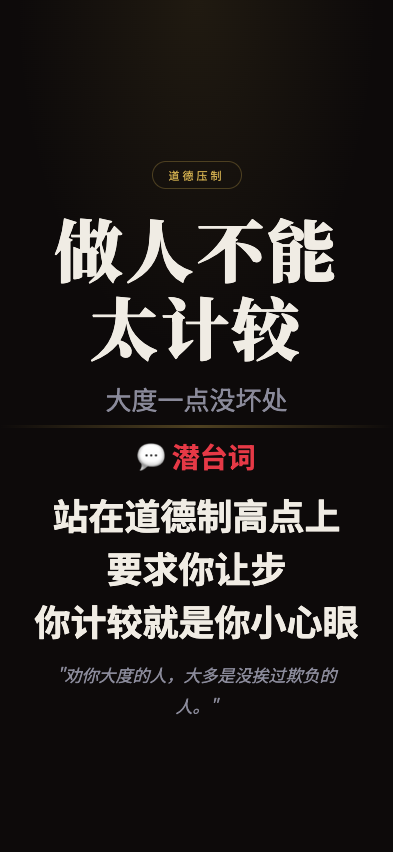
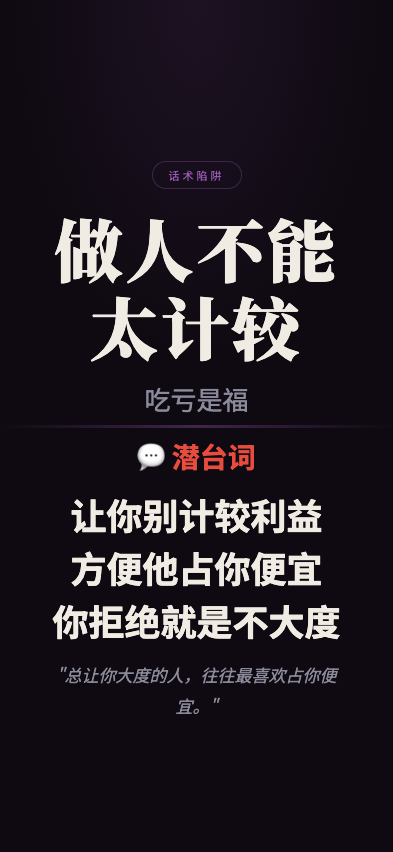
feat: 职场生存法则 screenshot - zuorenbunengtaijijiao

Changed region(s): [[0.0916, 0.5798, 0.916, 0.8545], [0.2443, 0.4577, 0.7634, 0.5188], [0.4275, 0.1831, 0.5802, 0.2136]]

diff --git a/wuliao-tools/tools/biz-speak/scenes/zuorenbunengtaijijiao.html b/wuliao-tools/tools/biz-speak/scenes/zuorenbunengtaijijiao.html
@@ -7,11 +7,11 @@
 <link href="https://fonts.googleapis.com/css2?family=Noto+Serif+SC:wght@400;700;900&family=Noto+Sans+SC:wght@300;400;700&display=swap" rel="stylesheet">
 <style>
   :root {
-    --bg: #0d0a0a;
+    --bg: #0f0a12;
     --text: #f0ece4;
     --text-dim: #8a8a9a;
-    --gold: #c9a84c;
-    --red: #e63946;
+    --gold: #9b59b6;
+    --red: #e74c3c;
   }
   * { margin:0; padding:0; box-sizing:border-box; }
   html, body { width:100%; height:100%; overflow:hidden; }
@@ -24,11 +24,11 @@
   }
   body::before {
     content:''; position:absolute; top:0; left:0; right:0; height:45%;
-    background:radial-gradient(ellipse at 50% 0%, rgba(201,168,76,0.1) 0%, transparent 65%);
+    background:radial-gradient(ellipse at 50% 0%, rgba(155,89,182,0.1) 0%, transparent 65%);
     pointer-events:none; z-index:0;
   }
   .top { flex:1; display:flex; flex-direction:column; align-items:center; justify-content:flex-end; padding:4px 28px 8px; position:relative; z-index:1; }
-  .tag { font-size:11px; letter-spacing:3px; color:var(--gold); border:1px solid rgba(201,168,76,0.3); padding:5px 16px; border-radius:50px; margin-bottom:20px; }
+  .tag { font-size:11px; letter-spacing:3px; color:var(--gold); border:1px solid rgba(155,89,182,0.3); padding:5px 16px; border-radius:50px; margin-bottom:20px; }
   .main-title { font-family:'Noto Serif SC'; font-size:68px; font-weight:900; text-align:center; line-height:1.15; letter-spacing:3px; min-width:0; overflow-wrap:break-word; max-width:92%; }
   .sub-title { font-size:26px; color:var(--text-dim); text-align:center; margin-top:14px; }
   .divider { width:100%; height:3px; background:linear-gradient(90deg,transparent,var(--gold),transparent); opacity:0.35; flex-shrink:0; position:relative; z-index:1; }
@@ -41,19 +41,19 @@
 </head>
 <body>
   <div class="top">
-    <div class="tag">道德压制</div>
+    <div class="tag">话术陷阱</div>
     <div class="main-title">做人不能太计较</div>
-    <div class="sub-title">大度一点没坏处</div>
+    <div class="sub-title">吃亏是福</div>
   </div>
   <div class="divider"></div>
   <div class="bottom">
     <div class="truth-label">💬 潜台词</div>
     <div class="truth-lines">
-      <div class="truth-line">站在道德制高点上</div>
-      <div class="truth-line">要求你让步</div>
-      <div class="truth-line">你计较就是你小心眼</div>
+      <div class="truth-line">让你别计较利益</div>
+      <div class="truth-line">方便他占你便宜</div>
+      <div class="truth-line">你拒绝就是不大度</div>
     </div>
-    <div class="quote">"劝你大度的人，大多是没挨过欺负的人。"</div>
+    <div class="quote">"总让你大度的人，往往最喜欢占你便宜。"</div>
   </div>
 </body>
 </html>
